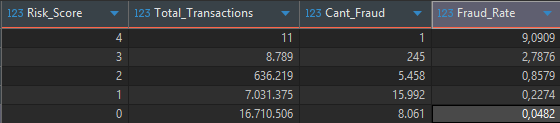
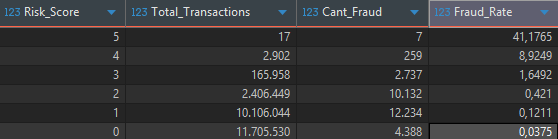
commit_final_3

diff --git a/README.md b/README.md
@@ -32,6 +32,7 @@ Identificar patrones asociados al fraude en transacciones con tarjetas de crédi
 - Identificar perfiles de usuarios con mayor riesgo.
 - Evaluar el impacto del uso del chip en el fraude.
 - Analizar el comportamiento por marca y tipo de tarjeta.
+- Construir un indicador de riesgo (Risk Score) que combine las señales más relevantes.
 - Obtener insights que apoyen la toma de decisiones.
 
 ---
@@ -711,7 +712,8 @@ ORDER BY Fraud_Rate DESC
 
 ## 🎯 Fase 4: Construcción de un Risk Score
 
-Construí un Risk Score sumando 4 señales de riesgo ya validadas en las preguntas anteriores (transacción online, monto alto, error crítico y límite de crédito bajo), usando CASE, CTEs encadenados y GROUP BY. Cada señal suma 1 punto, dando un score de 0 a 4.
+Construí el score sumando 6 señales de riesgo ya validadas en el análisis anterior: transacción online, monto alto, MCC de alto riesgo, límite de crédito bajo, error crítico de tarjeta y usuario con 5 o más tarjetas. Cada señal suma 1 punto, dando un score de 0 a 6 puntos por transacción. En la práctica, ninguna transacción del dataset acumuló las 6 señales a la vez — el score máximo observado fue 5.
+
 
 ```sql
 WITH CTE_Flags AS (
@@ -721,24 +723,30 @@ WITH CTE_Flags AS (
         t.Amount,
         t.Use_Chip,
         t.Errors,
+        t.MCC,
         t.Is_Fraud,
         tu.Credit_Limit,
+        us.Num_Credit_Cards,
 
         CASE WHEN t.Use_Chip = 'Online Transaction' THEN 1 ELSE 0 END AS Flag_Online,
         CASE WHEN ROUND(CAST(REPLACE(t.Amount,'$','') AS FLOAT),2) > 600 THEN 1 ELSE 0 END AS Flag_Monto_Alto,
         CASE WHEN t.Errors IN ('Bad CVV','Bad Expiration','Bad Card Number','Bad PIN') THEN 1 ELSE 0 END AS Flag_Error_Critico,
-        CASE WHEN CAST(REPLACE(tu.Credit_Limit,'$','') AS FLOAT) < 7043 THEN 1 ELSE 0 END AS Flag_Limite_Bajo
+        CASE WHEN CAST(REPLACE(tu.Credit_Limit,'$','') AS FLOAT) < 7043 THEN 1 ELSE 0 END AS Flag_Limite_Bajo,
+        CASE WHEN t.MCC IN (5045,5732,5094,5816,5712) THEN 1 ELSE 0 END AS Flag_MCC_Riesgo,
+        CASE WHEN us.Num_Credit_Cards >= 5 THEN 1 ELSE 0 END AS Flag_Muchas_Tarjetas
 
     FROM dbo.Transacciones_Tarjetas t
     INNER JOIN dbo.Tarjetas_Usuarios tu
         ON t.User_ID = tu.User_ID
        AND t.Card = tu.Card_Index
+    INNER JOIN dbo.Datos_Usuarios us
+        ON t.User_ID = us.User_ID
 ),
 
 CTE_Score AS (
     SELECT
         *,
-        (Flag_Online + Flag_Monto_Alto + Flag_Error_Critico + Flag_Limite_Bajo) AS Risk_Score
+        (Flag_Online + Flag_Monto_Alto + Flag_Error_Critico + Flag_Limite_Bajo + Flag_MCC_Riesgo + Flag_Muchas_Tarjetas) AS Risk_Score
     FROM CTE_Flags
 )
 
@@ -754,24 +762,26 @@ ORDER BY Risk_Score DESC;
 
 ![Fraud Rate RiskScore](Picture/Risk_Score_Fraud_Detection.png)
 
-**Hallazgo:** el Fraud Rate sube de forma constante con el Risk Score. Las transacciones con las 4 señales presentes tienen una tasa de fraude de 9.09%, casi 190 veces superior a las que no tienen ninguna señal (0.05%). El salto más marcado ocurre entre score 2 y score 3, donde la tasa pasa de 0.86% a 2.79%.
+**Hallazgo:** el Fraud Rate sube de forma constante y muy marcada con el Risk Score. Las transacciones con 5 señales presentes tienen una tasa de fraude de 41.18%, más de 1,000 veces superior al grupo sin ninguna señal (0.04%). Las transacciones con score 3 o más representan menos del 1% del volumen total, pero concentran cerca del 10% de todo el fraude del dataset.
 
-**Recomendación:** usar este Risk Score para priorizar revisión manual o validación adicional: las transacciones con score 3 o 4 deberían tratarse como de alta prioridad. Como siguiente paso, se podría dar distinto peso a cada señal según su fuerza individual, o incorporar variables de comportamiento del usuario como gasto atípico respecto a su historial o frecuencia de transacciones.
+**Recomendación:** las transacciones con score 4 o 5 deberían bloquearse o requerir verificación inmediata, ya que más del 8% (score 4) y más del 40% (score 5) resultan ser fraude real. Las de score 3 ameritan revisión prioritaria, aunque con menor urgencia. Las de score 0 o 1 no requieren revisión adicional, ya que su tasa de fraude está en línea o por debajo del promedio general.
 
 ---
 
 ## 📌 Conclusiones
 
-Este proyecto analizó más de 24 millones de transacciones con tarjetas de crédito para identificar patrones de fraude y traducirlos en recomendaciones de negocio. Estas son las conclusiones principales:
+Este proyecto analizó más de 24 millones de transacciones con tarjetas de crédito para identificar patrones de fraude y traducirlos en recomendaciones de negocio. Estas son las conclusiones principales, en línea con los objetivos planteados:
 
-**Sobre la tasa de fraude:** el fraude representa solo el 0.12% de las transacciones, pero no se distribuye de forma pareja. Se concentra en segmentos específicos: transacciones online, montos altos, comercios de electrónica y bienes de valor, errores de validación de tarjeta (CVV, número, PIN) y usuarios con más tarjetas o menor límite de crédito.
+**Sobre el comportamiento de las transacciones fraudulentas:** el fraude representa solo el 0.12% del total, pero no se distribuye de forma pareja. Se concentra en segmentos específicos: transacciones online, montos altos, comercios de electrónica y bienes de valor, y errores de validación de tarjeta (CVV, número, PIN).
 
-**Variables que sí predicen fraude:** tipo de transacción, monto, MCC, tipo de error y número de tarjetas mostraron relaciones claras y consistentes con el fraude. El estado geográfico también aporta señal, pero de forma puntual: la mayoría de estados se mueven cerca del promedio general, salvo casos específicos como South Dakota, Hawái y Oregon, que casi duplican la tasa de fraude.
+**Sobre los perfiles de usuario con mayor riesgo:** los usuarios con más tarjetas activas o menor límite de crédito presentan una tasa de fraude más alta. El FICO Score, en cambio, no mostró una relación consistente con el fraude — incluso los usuarios con mejor historial crediticio presentaron una tasa más alta, por lo que no se recomienda como criterio principal para reglas de riesgo.
 
-**Variables que no aportan señal:** el FICO Score no mostró una relación consistente con el fraude — incluso los usuarios con mejor historial crediticio presentaron una tasa más alta, por lo que no se recomienda como criterio principal para reglas de riesgo.
+**Sobre el impacto del chip:** las transacciones online tienen un Fraud Rate casi 9 veces mayor que las realizadas con chip, confirmando que el canal de pago es una de las señales más fuertes del análisis.
 
-**Risk Score:** combinar varias señales de riesgo en un solo indicador funciona mejor que evaluarlas por separado. Las transacciones con más señales presentes concentran una tasa de fraude significativamente más alta que el promedio general, lo que confirma que el fraude responde a la combinación de factores, no a uno solo.
+**Sobre la marca y el tipo de tarjeta:** Discover presenta la tasa de fraude más alta entre las marcas, aunque con menor volumen de transacciones. Mastercard y Visa, con el 90% del volumen total, muestran tasas más bajas y estables.
 
-**Recomendación general:** priorizar controles adicionales (validación extra, revisión manual) en transacciones online, de monto alto, en comercios de alto valor y con errores críticos de tarjeta. Evitar aplicar fricción en los segmentos de bajo riesgo (compras cotidianas, montos bajos), donde agregar controles solo afectaría la experiencia del usuario sin reducir fraude real.
+**Sobre el Risk Score:** combinar 6 señales de riesgo en un solo indicador (transacción online, monto alto, MCC de riesgo, límite de crédito bajo, error crítico y número de tarjetas) mejora notablemente la capacidad de detección frente a evaluar cada variable por separado. Las transacciones con el score más alto (5 señales) presentan una tasa de fraude de 41.18%, más de 1,000 veces superior al grupo sin señales, y concentran cerca del 10% de todo el fraude del dataset en menos del 1% del volumen total.
+
+**Recomendación general:** priorizar controles adicionales (validación extra, revisión manual o bloqueo) en transacciones con score alto, especialmente aquellas online, de monto alto, en comercios de riesgo o con errores críticos de tarjeta. Evitar aplicar fricción en los segmentos de bajo riesgo, donde agregar controles solo afectaría la experiencia del usuario sin reducir fraude real.
 
 **Próximos pasos:** este análisis descriptivo puede evolucionar incorporando variables de comportamiento del usuario (gasto atípico respecto a su historial, frecuencia de transacciones), dashboards en Power BI para monitoreo en tiempo real, y modelos de Machine Learning que aprendan patrones más complejos que las reglas fijas usadas en este proyecto.